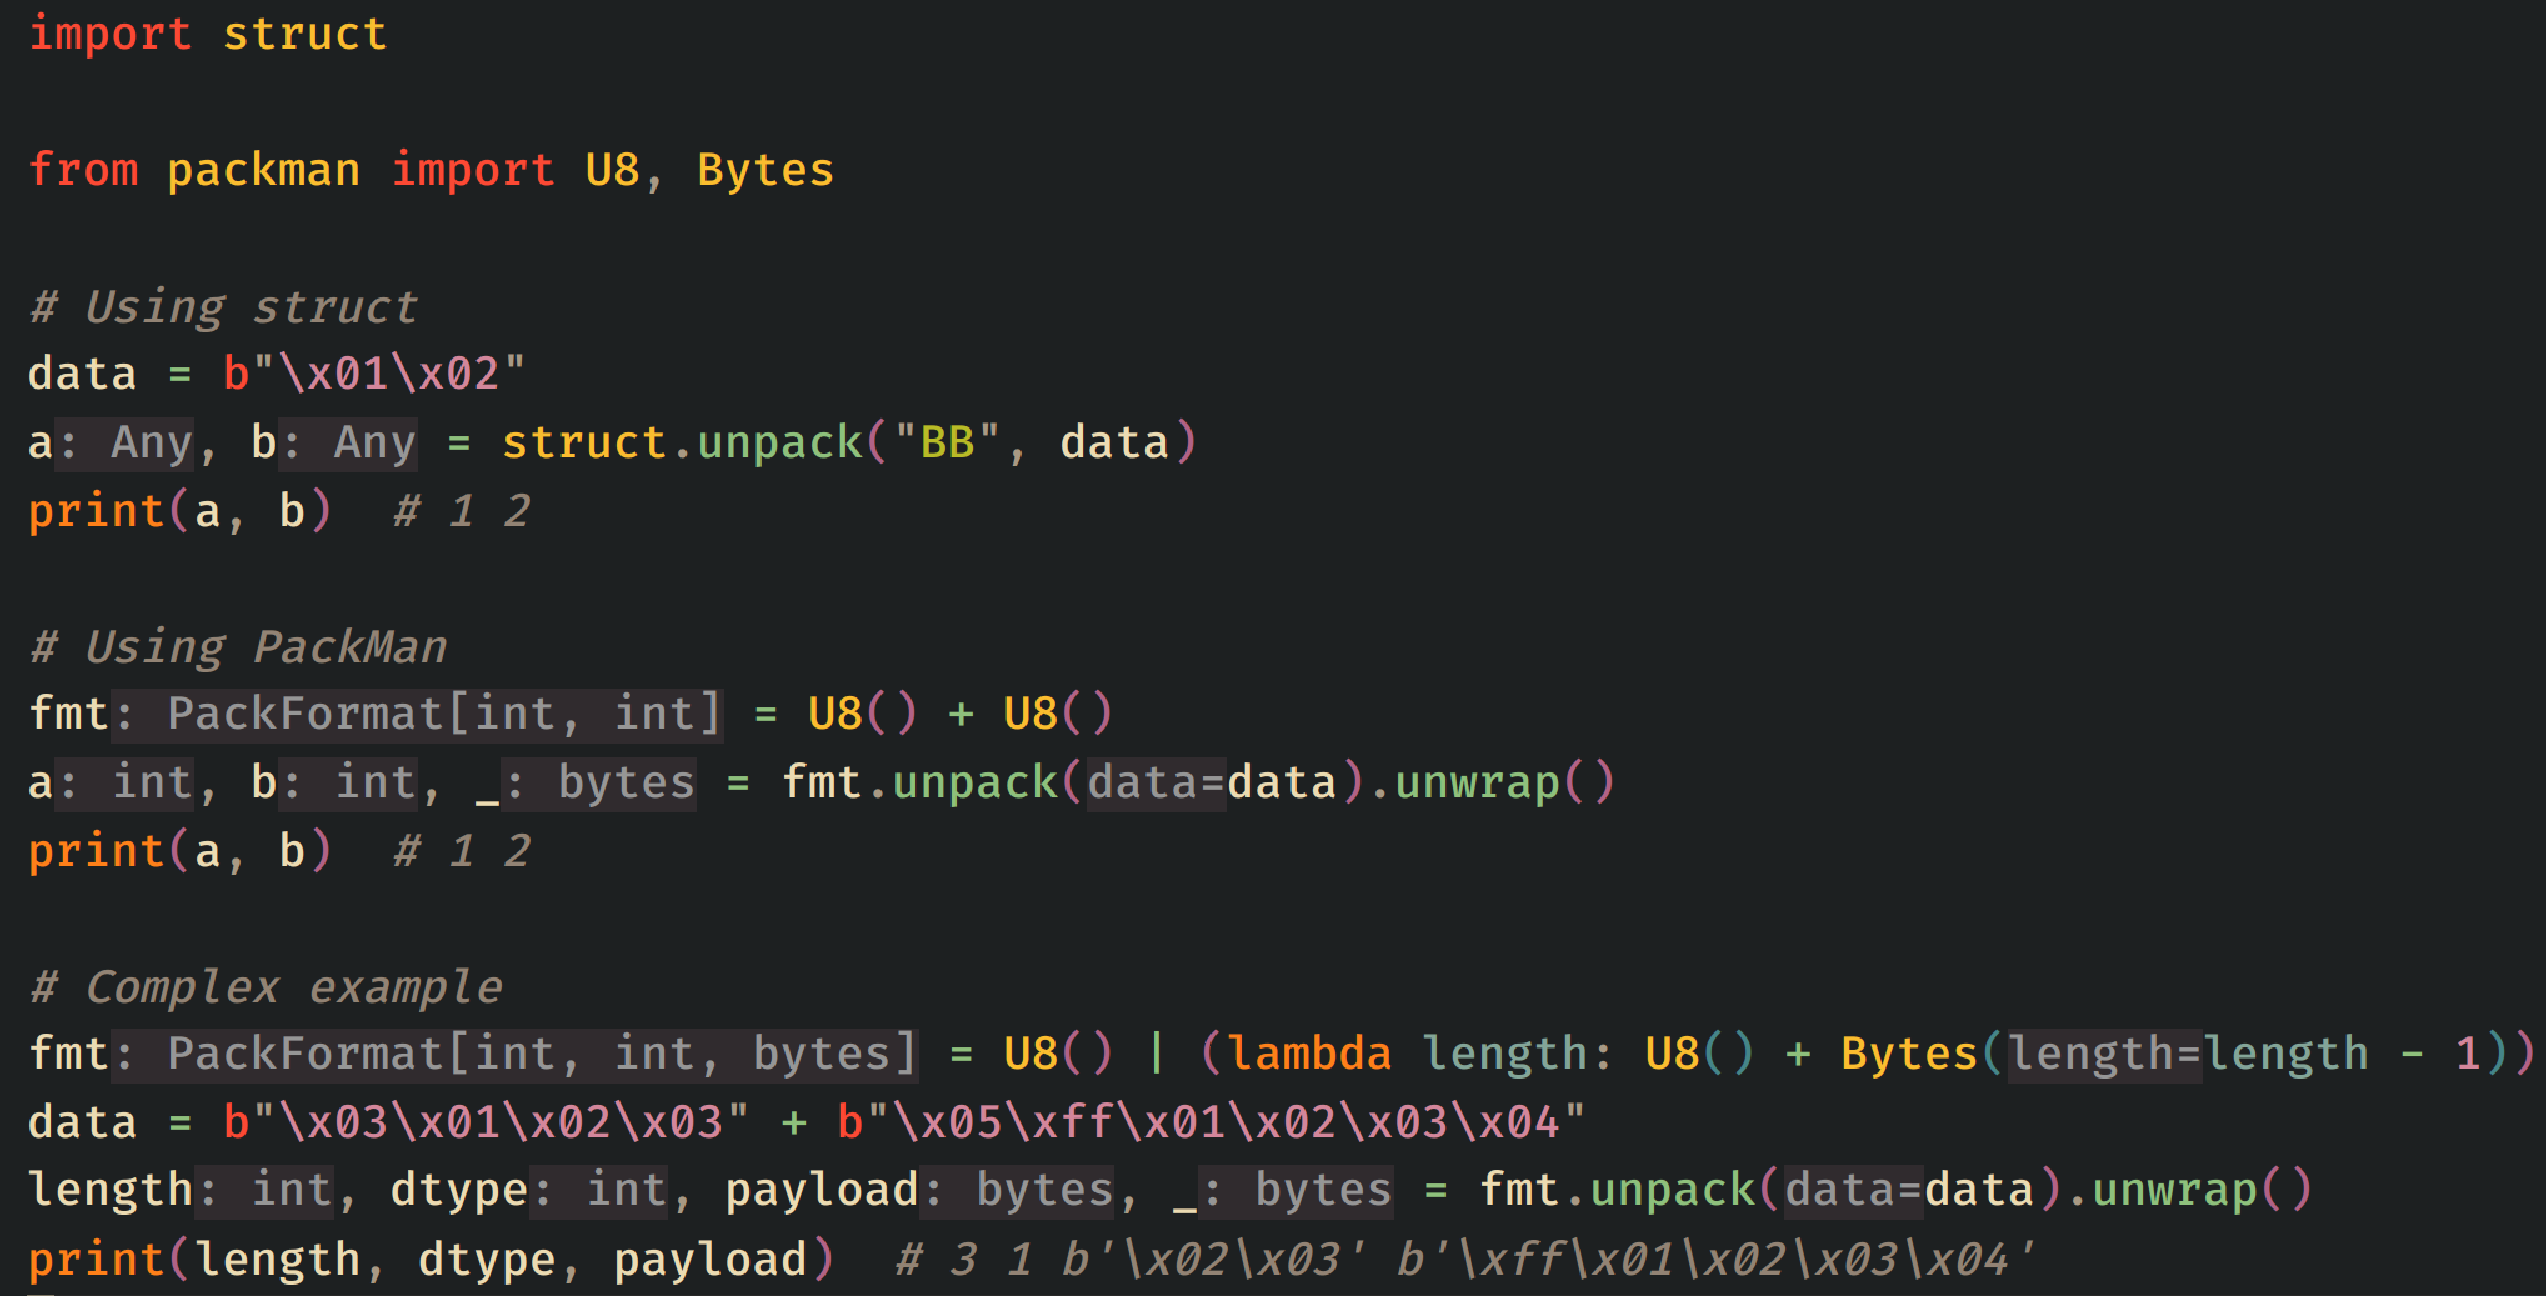
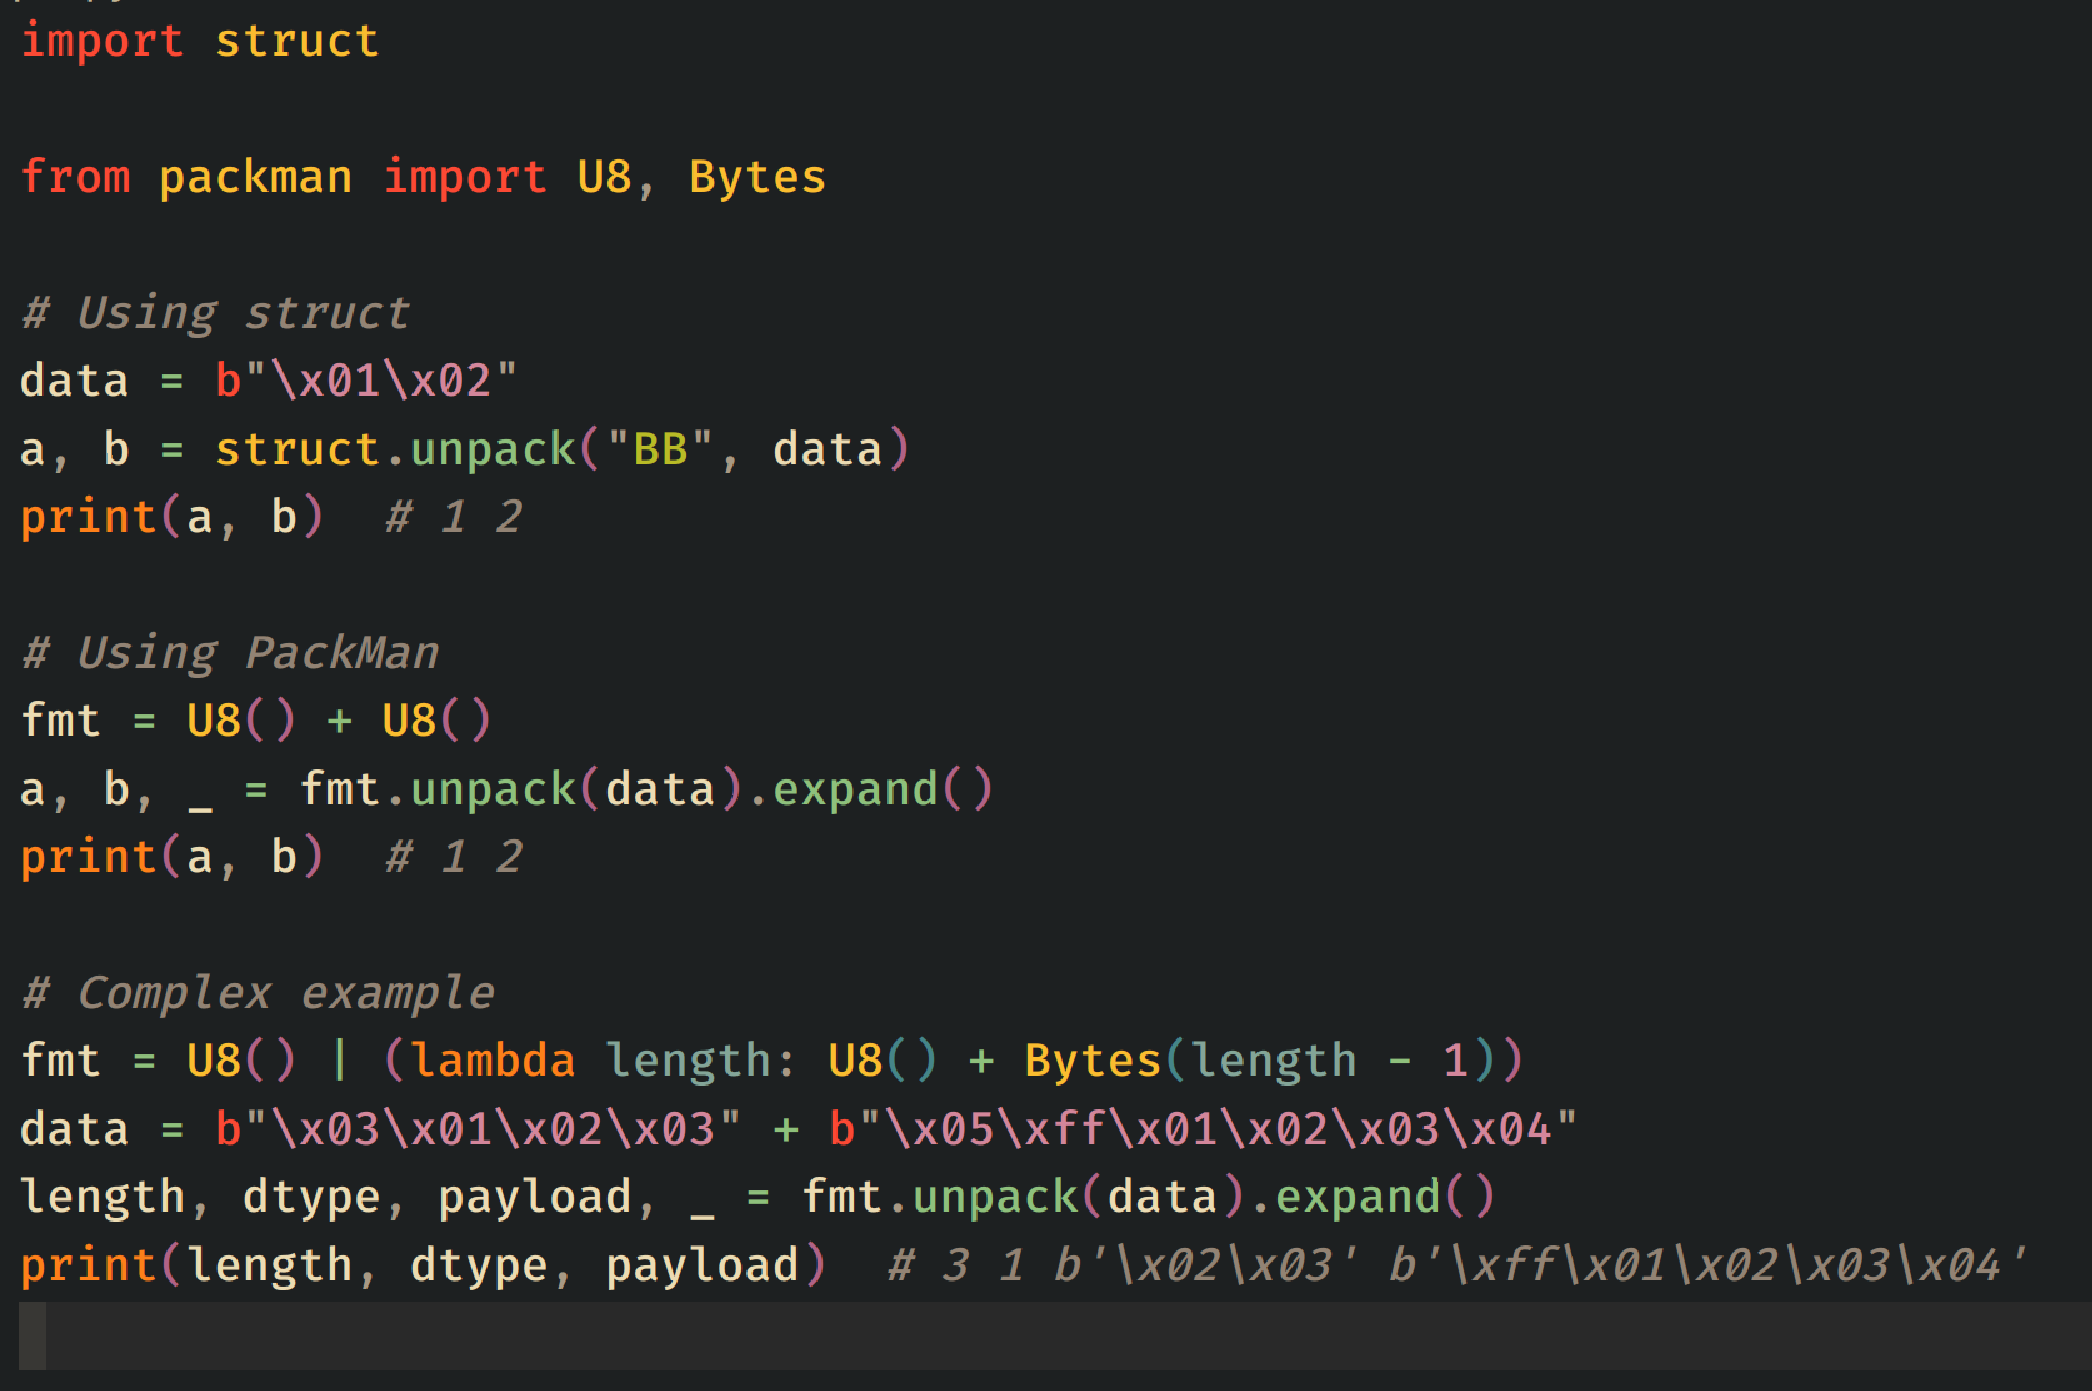
Refactor to use unwrap and expand to get data in UnpackResult, and use separate file to store UnpackResult class

diff --git a/packman/core.py b/packman/core.py
@@ -1,64 +1,107 @@
 import struct
 from copy import copy
-from dataclasses import dataclass
 from enum import StrEnum
 from functools import cached_property
 from typing import Callable, Literal, cast
 
+from packman.result import UnpackResult
+
+type ByteOrderName = Literal["none", "native", "native_aligned", "little", "big", "network"]
+
 
 class ByteOrder(StrEnum):
-    # TODO: Support other byteorders, size, alignment formats
-    NATIVE = "@"
+    NONE = ""
+    NATIVE = "="
+    NATIVE_ALIGNED = "@"
     LITTLE = "<"
     BIG = ">"
+    NETWORK = "!"
 
-
-@dataclass
-class UnpackResult[*T]:
-    values: tuple[*T]
-    rest: bytes
-
-    def unwrap(self) -> tuple[*T, bytes]:
-        return *self.values, self.rest
+    @classmethod
+    def from_name(
+        cls: type["ByteOrder"],
+        name: ByteOrderName,
+    ) -> "ByteOrder":
+        return {
+            "none": cls.NONE,
+            "native": cls.NATIVE,
+            "native_aligned": cls.NATIVE_ALIGNED,
+            "little": cls.LITTLE,
+            "big": cls.BIG,
+            "network": cls.NETWORK,
+        }[name]
 
 
 class PackFormat[*T]:
+    """Basic binary packing format."""
+
     fmt: str
-    byteorder: ByteOrder = ByteOrder.NATIVE
+    byteorder: ByteOrder = ByteOrder.NONE
 
     def __init__(
-        self, byteorder: ByteOrder | Literal["little", "big", "native"] = "native"
+        self,
+        byteorder: ByteOrder | ByteOrderName = ByteOrder.NONE,
     ) -> None:
         if isinstance(byteorder, ByteOrder):
             self.byteorder = byteorder
         else:
-            self.byteorder = {
-                "little": ByteOrder.LITTLE,
-                "big": ByteOrder.BIG,
-                "native": ByteOrder.NATIVE,
-            }[byteorder]
+            self.byteorder = ByteOrder.from_name(byteorder)
 
     @cached_property
     def size(self) -> int:
-        return struct.calcsize(self.fmt)
+        return struct.calcsize(
+            f"{self.byteorder if self.byteorder != ByteOrder.NONE else ByteOrder.NATIVE_ALIGNED}{self.fmt}"
+        )
 
     def unpack(self, data: bytes) -> UnpackResult[*T]:
-        fmt = f"{self.byteorder}{self.fmt}"
+        """
+        Unpacks data into an UnpackResult object.
+        >>> from packman import U8
+        >>> U8().unpack(b"\x01").unwrap()
+        (1, b'')
+        """
+        fmt = f"{self.byteorder if self.byteorder != ByteOrder.NONE else ByteOrder.NATIVE_ALIGNED}{self.fmt}"
         values = struct.unpack(fmt, data[: self.size])
         rest = data[self.size :]
         return UnpackResult(values, rest)
 
     def pack(self, *values: *T) -> bytes:
+        """
+        Packs values into bytes.
+        >>> from packman import U8
+        >>> U8().pack(1).hex()
+        '01'
+        """
         return struct.pack(self.fmt, *values)
 
     def __add__[*U](self, other: "PackFormat[*U]") -> "PackFormat[(*T, *U)]":
+        """
+        Describes the concatenation of two formats.
+        >>> from packman import U8
+        >>> (U8() + U8()).fmt
+        'BB'
+        >>> (U8() + U8()).unpack(b"\x01\x02").unwrap()
+        (1, 2, b'')
+        """
         new_format = copy(self)
-        new_format.fmt = (
-            f"{self.fmt}{other.byteorder if self.byteorder != other.byteorder else ''}{other.fmt}"
-        )
+        match new_format.byteorder, other.byteorder:
+            case _, ByteOrder.NONE:
+                new_format.fmt = f"{self.fmt}{other.fmt}"
+            case byteorder, new_byteorder if byteorder != new_byteorder:
+                new_format.fmt = f"{other.fmt}{new_byteorder}{self.fmt}"
+            case _, _:
+                new_format.fmt = f"{self.fmt}{other.fmt}"
         return cast("PackFormat[(*T, *U)]", new_format)
 
     def then[*U](self, mapper: Callable[[*T], "PackFormat[*U]"]) -> "PackFormat[(*T, *U)]":
+        """
+        Chains two formats, where the second format is dynamically derived from the result of the previous format.
+
+        >>> from packman import U8, Bytes
+        >>> U8().then(lambda length: Bytes(length)).unpack(b"\x01\x02").unwrap()
+        (1, b'\\x02', b'')
+        """
+
         class Chainedformat(PackFormat):
             def __init__(self, first: PackFormat, mapper: Callable):
                 super().__init__()
@@ -88,4 +131,5 @@ class PackFormat[*T]:
         return Chainedformat(self, mapper)
 
     def __or__[*U](self, mapper: Callable[[*T], "PackFormat[*U]"]) -> "PackFormat[(*T, *U)]":
+        """Shorthand for `then`"""
         return self.then(mapper)

diff --git a/example.py b/example.py
@@ -9,11 +9,11 @@ print(a, b)  # 1 2
 
 # Using PackMan
 fmt = U8() + U8()
-a, b, _ = fmt.unpack(data).unwrap()
+a, b, _ = fmt.unpack(data).expand()
 print(a, b)  # 1 2
 
 # Complex example
 fmt = U8() | (lambda length: U8() + Bytes(length - 1))
 data = b"\x03\x01\x02\x03" + b"\x05\xff\x01\x02\x03\x04"
-length, dtype, payload, _ = fmt.unpack(data).unwrap()
+length, dtype, payload, _ = fmt.unpack(data).expand()
 print(length, dtype, payload)  # 3 1 b'\x02\x03' b'\xff\x01\x02\x03\x04'

diff --git a/packman/__init__.py b/packman/__init__.py
@@ -1,10 +1,12 @@
-from .core import ByteOrder, PackFormat, UnpackResult
+from .core import ByteOrder, PackFormat
 from .formats import F32, F64, I8, I16, I32, I64, U8, U16, U32, U64, Bytes
+from .result import UnpackResult
 
 __all__ = [
     "ByteOrder",
     "PackFormat",
     "UnpackResult",
+    "result",
     "F32",
     "F64",
     "I8",

diff --git a/packman/result.py b/packman/result.py
@@ -1,0 +1,13 @@
+from dataclasses import dataclass
+
+
+@dataclass
+class UnpackResult[*T]:
+    values: tuple[*T]
+    rest: bytes
+
+    def expand(self) -> tuple[*T, bytes]:
+        return *self.values, self.rest
+
+    def unwrap(self) -> tuple[tuple[*T], bytes]:
+        return self.values, self.rest

diff --git a/README.md b/README.md
@@ -33,13 +33,38 @@ print(a, b)  # 1 2
 
 # Using PackMan
 fmt = U8() + U8()
-a, b, _ = fmt.unpack(data).unwrap()
+a, b, _ = fmt.unpack(data).expand()
 print(a, b)  # 1 2
 ```
 
 PackMan offers improved type safety: returned value from struct.unpack has type tuple[Any, ...], while PackMan's return value has the more specific type tuple[int, int, bytes], providing better type information and reducing the risk of type-related errors.
 
 ![type_demo](/images/type_demo.png)
+
+### Expand/Unwrap the Result
+
+`unpack` will return an `UnpackResult` object. There are several ways to get the data:
+
+```python
+data = b'\x01\x02\x03'
+fmt = U8() + U8()
+
+# result only:
+a, b = fmt.unpack(data).values  # 1 2
+
+# remaining data only:
+rest = fmt.unpack(data).rest  # b'\x03'
+
+# result and remaining data (rest):
+result, rest = fmt.unpack(data).unwrap()  # (1, 2), b'\x03'
+# or
+(a, b), rest = fmt.unpack(data).unwrap()
+
+# expanded result and remaining data:
+a, b, rest = fmt.unpack(data).expand()  # 1, 2, b'\x03'
+```
+
+You will find `.expand()` very useful in simplifying the syntax if you need to unpack individual results and keep working on the remaining data.
 
 ### Packing and Unpacking
 
@@ -55,7 +80,7 @@ packed = fmt.pack(1, 2, b"a")
 print(packed)  # b'\x01\x02a'
 
 # Unpacking
-unpacked = fmt.unpack(packed).unwrap()
+unpacked = fmt.unpack(packed).expand()
 print(unpacked)  # (1, 2, b'a', b'')
 ```
 
@@ -75,7 +100,7 @@ packed = fmt.pack(3, 1, b"\x02\x03")
 print(packed)  # b'\x03\x01\x02\x03'
 
 # Unpacking
-unpacked = fmt.unpack(packed).unwrap()
+unpacked = fmt.unpack(packed).expand()
 print(unpacked)  # (3, 1, b'\x02\x03', b'')
 ```
 
@@ -90,7 +115,7 @@ from collections.abc import Iterator
 def parse_ble_advertisement(data: bytes) -> Iterator[tuple[int, int, bytes]]:
     fmt = U8() | (lambda length: U8() + Bytes(length - 1))
     while data:
-        length, dtype, payload, data = fmt.unpack(data).unwrap()
+        length, dtype, payload, data = fmt.unpack(data).expand()
         yield length, dtype, payload
 
 # Usage
